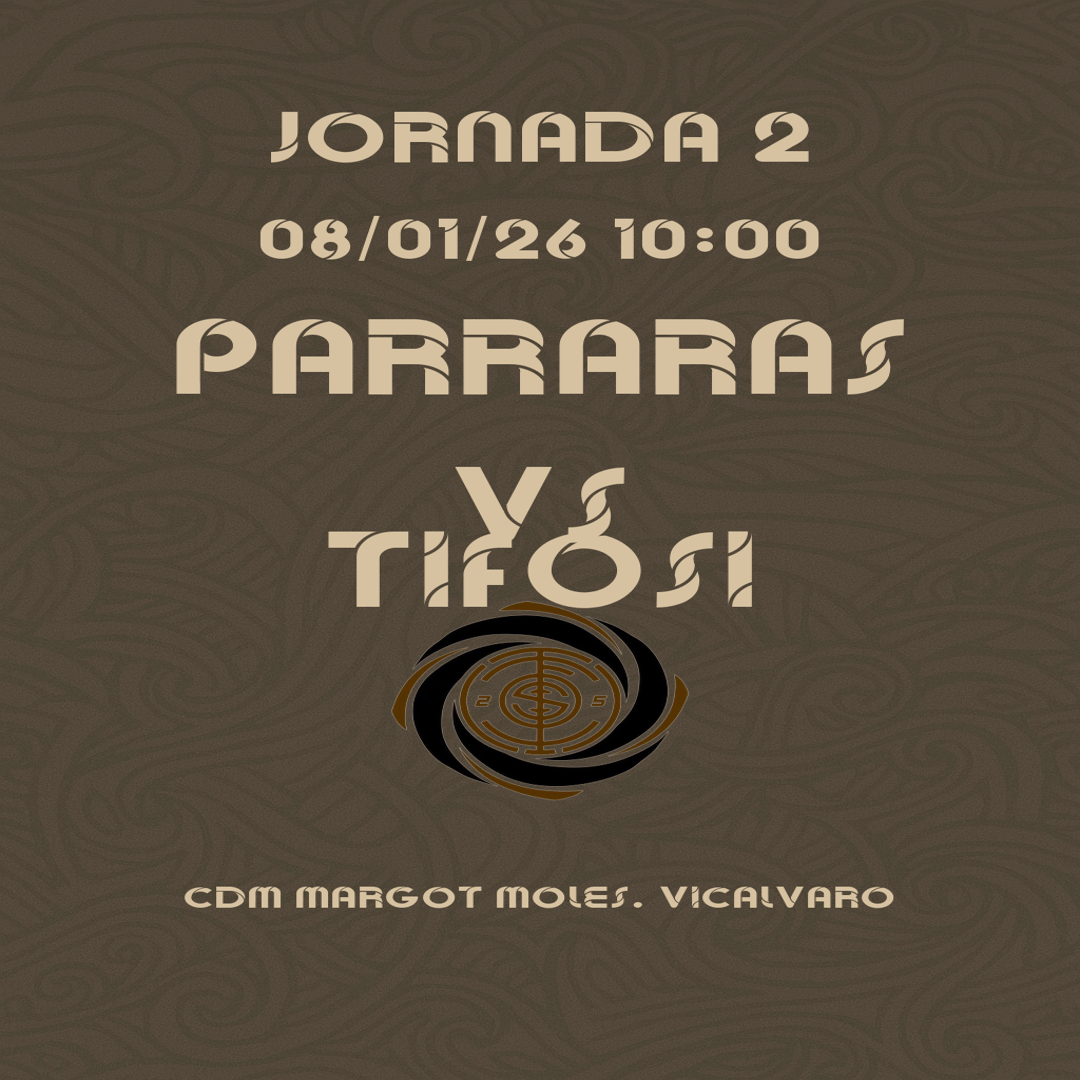
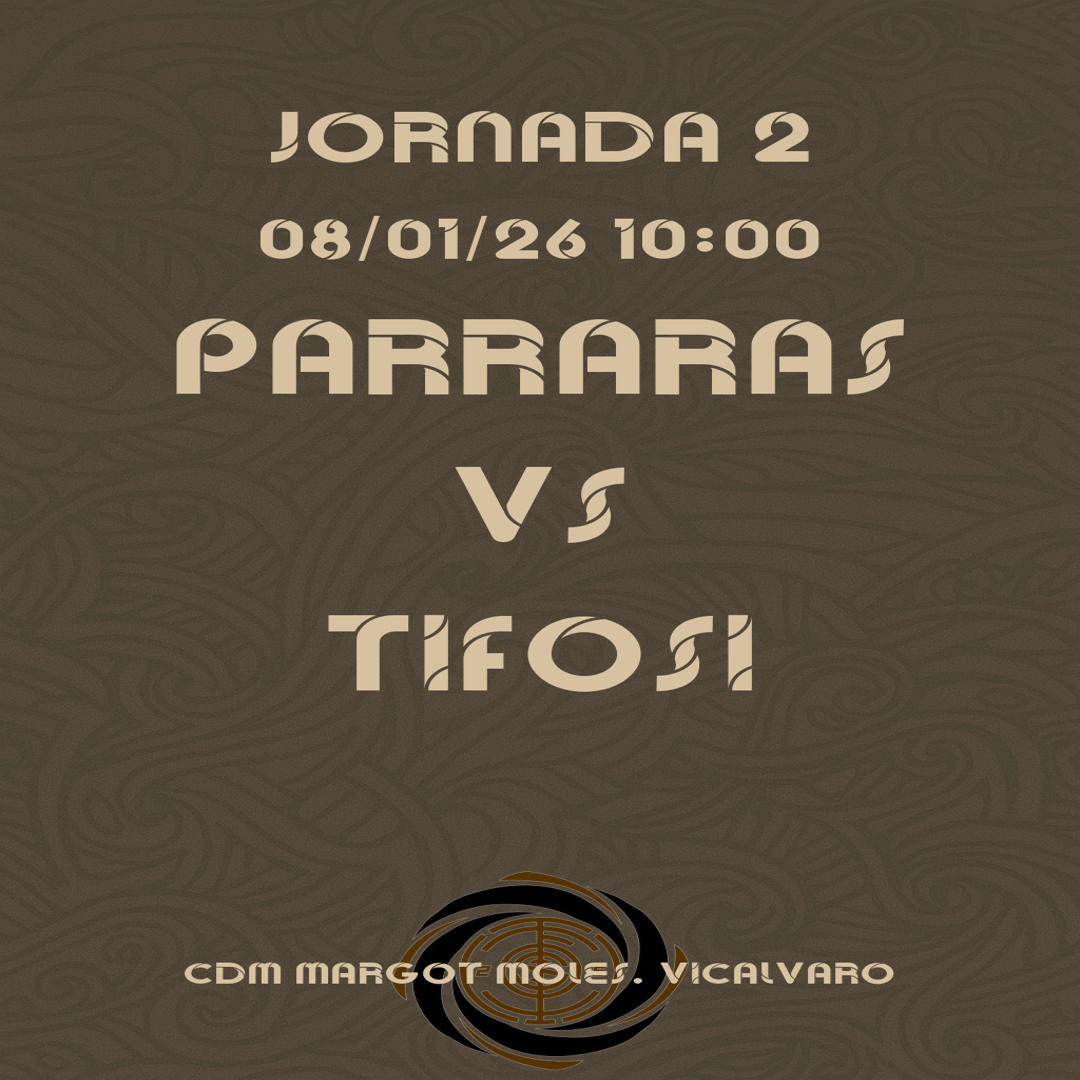
update web

Changed region(s): [[0.3056, 0.4889, 0.7028, 0.7639], [0.1528, 0.7944, 0.825, 1.0]]

diff --git a/image_generator.py b/image_generator.py
@@ -321,8 +321,8 @@ def generar_proximo(data):
     y_jornada = int(alto * 0.10)
     y_fecha = int(alto * 0.20)
     y_equipos = int(alto * 0.35)
-    y_escudo = int(alto * 0.55)
-    y_ubicacion = int(alto * 0.83)
+    y_escudo = int(alto * 0.80)
+    y_ubicacion = int(alto * 0.90)
 
     # =========================
     # FUENTES
@@ -342,7 +342,7 @@ def generar_proximo(data):
     spacing = int(alto * 0.06)
     center_text(draw, img, equipo_local.upper(), font_equipo, y_equipos - spacing, COLOR_BEIGE)
     center_text(draw, img, "\nVS", font_equipo, y_equipos, COLOR_BEIGE)
-    center_text(draw, img, "\n" + equipo_visitante.upper(), font_equipo, y_equipos + spacing, COLOR_BEIGE)
+    center_text(draw, img, "\n\n" + equipo_visitante.upper(), font_equipo, y_equipos + spacing, COLOR_BEIGE)
 
     # =========================
     # ESCUDO
